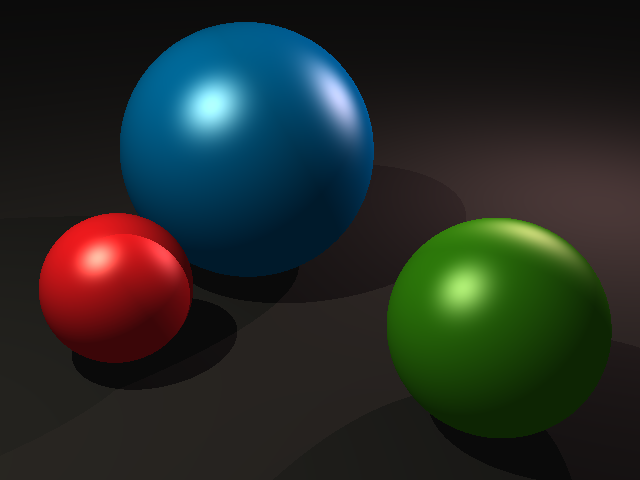
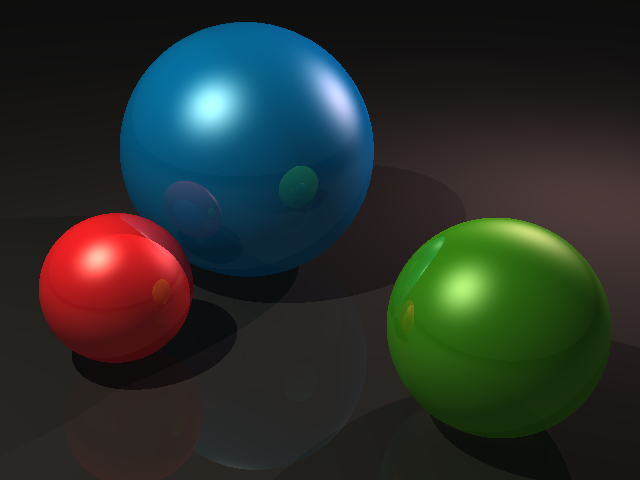
reflect done

diff --git a/tick2/src/gfx/tick2/Renderer.java b/tick2/src/gfx/tick2/Renderer.java
@@ -44,8 +44,11 @@ public class Renderer {
         } else {
             Vector3 reflectedIllumination = new Vector3(0);
             // TODO: Calculate the direction R of the bounced ray
+            Vector3 R = ray.getDirection().scale(-1).reflectIn(N);
             // TODO: Spawn a reflectedRay with bias
+            Ray reflectedRay = new Ray(P.add(R.scale(EPSILON)), R);
             // TODO: Calculate reflectedIllumination by tracing reflectedRay
+            reflectedIllumination = trace(scene, reflectedRay, bouncesLeft - 1);
 
             // Scale direct and reflective illumination to conserve light
             directIllumination = directIllumination.scale(1.0 - object.getReflectivity());
@@ -96,11 +99,11 @@ public class Renderer {
             // TODO: Cast the shadowRay with findClosestIntersection to determine if P is in shadow or not, and set inShadow
             RaycastHit closestHit = scene.findClosestIntersection(shadowRay);
             double shadeDistance = closestHit.getDistance();
-            if (shadeDistance < light.getPosition().subtract(P).magnitude()){
+            if (shadeDistance < light.getPosition().subtract(P).magnitude()) {
                 inShadow = true;
             }
             // TODO: if not inShadow, add diffuse and specular to colourToReturn
-            if (! inShadow) {
+            if (!inShadow) {
                 colourToReturn = colourToReturn.add(diffuse).add(specular);
             }
         }
